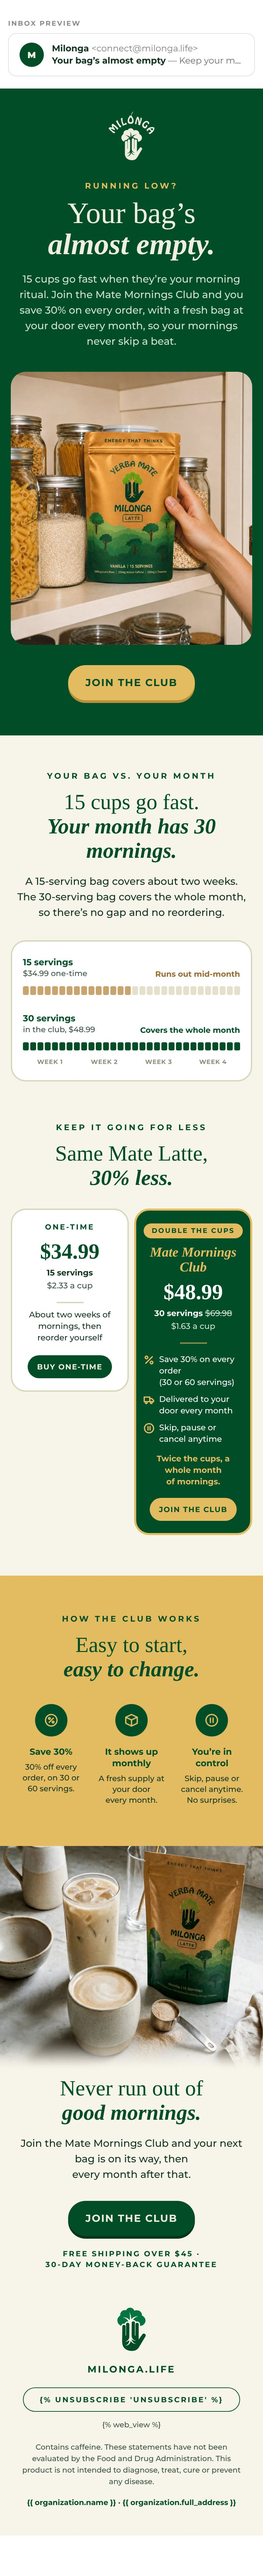
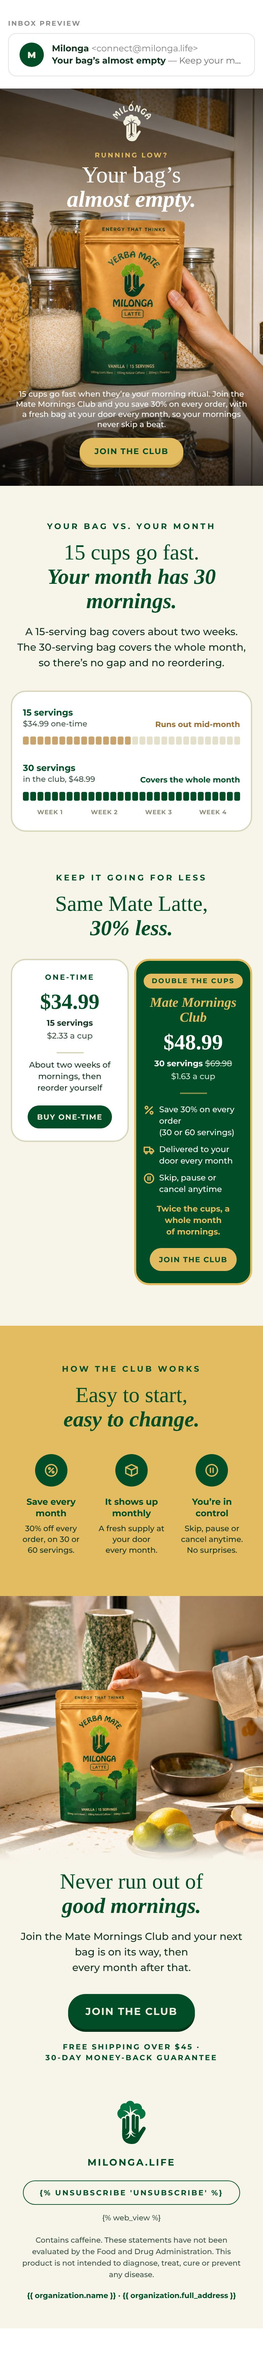
Post-purchase E3: pantry photo as the hero background, windowsill closing photo, 'Save every month'
Claude-Session: https://claude.ai/code/session_01NhEtXPnfeCJfN73SqBkUZ5

diff --git a/email-ds/refine/pp1-e3.html b/email-ds/refine/pp1-e3.html
@@ -20,7 +20,17 @@ body{margin:0;background:#FFFFFF;padding:28px 0 60px}
     .pad { padding-left:24px !important; padding-right:24px !important; }
     .pad-photo { padding-left:16px !important; padding-right:16px !important; }
     .full { width:100% !important; height:auto !important; }
-    .hero-logo { width:68px !important; height:72px !important; }
+    .hero { height:588px !important; background-size:cover !important; }
+    .hero-top { padding:18px 24px 0 !important; }
+    .hero-logo { width:57px !important; height:60px !important; }
+    .hero-eyebrow { padding-top:14px !important; font-size:10px !important; line-height:13px !important; letter-spacing:2px !important; }
+    .hero-title { font-size:34px !important; line-height:36px !important; }
+    .hero-title1 { padding-top:6px !important; }
+    .hero-gap { height:262px !important; line-height:262px !important; }
+    .hero-bottom { padding:0 22px !important; }
+    .hero-intro { font-size:11.5px !important; line-height:15px !important; }
+    .hero-cta { padding-top:12px !important; }
+    .hero .btn { padding:12px 22px !important; font-size:12px !important; letter-spacing:1px !important; }
     .h-hero { font-size:44px !important; line-height:46px !important; }
     .h-sec { font-size:32px !important; line-height:36px !important; }
     .lead { font-size:15px !important; line-height:23px !important; }
@@ -45,8 +55,6 @@ body{margin:0;background:#FFFFFF;padding:28px 0 60px}
   }
   @media (prefers-color-scheme: dark) {
     .bg-white { background-color:#FFFFFF !important; }
-    .bg-hero-top { background-color:#004D27 !important; }
-    .bg-hero { background-color:#004D27 !important; }
     .bg-cream { background-color:#F7F4EA !important; }
     .bg-page { background-color:#F0EFDF !important; }
     .bg-forest { background-color:#004D27 !important; }
@@ -60,19 +68,24 @@ body{margin:0;background:#FFFFFF;padding:28px 0 60px}
 <tr><td align="center">
 <table role="presentation" class="wrap" width="600" cellpadding="0" cellspacing="0" border="0" style="width:600px;max-width:600px;table-layout:fixed;">
 
-<!-- ── 1 · RUNNING LOW? On forest green: the pantry photo, framed, then the button ── -->
-<tr><td class="pad bg-hero-top" align="center" bgcolor="#004D27" style="background-color:#004D27;padding:34px 40px 8px;font-family:'Montserrat','Helvetica Neue',Helvetica,Arial,sans-serif;">
+<!-- ── 1 · RUNNING LOW? Bernat's pantry photo is the section's background: logo and title
+     on its darkened top, the line and the button on its darkened bottom ── -->
+<tr><td class="hero" align="center" valign="top" height="904" background="../exports/klaviyo/pp1-e3/img/hero-bg.jpg" bgcolor="#8C7B66" style="height:904px;background-color:#8C7B66;background-image:url('../exports/klaviyo/pp1-e3/img/hero-bg.jpg');background-size:cover;background-position:center top;background-repeat:no-repeat;padding:0;">
+<!--[if gte mso 9]><v:rect xmlns:v="urn:schemas-microsoft-com:vml" fill="true" stroke="false" style="width:600px;height:904px;"><v:fill type="frame" src="../exports/klaviyo/pp1-e3/img/hero-bg.jpg" color="#8C7B66" /><v:textbox inset="0,0,0,0"><![endif]-->
+<div class="hero-top" style="padding:30px 40px 0;font-family:'Montserrat','Helvetica Neue',Helvetica,Arial,sans-serif;text-align:center;">
 <a href="https://milonga.life/?utm_source=klaviyo&amp;utm_medium=email&amp;utm_campaign=post_purchase_mate_latte&amp;utm_content=pp3_logo" target="_blank" style="display:block;"><img class="hero-logo" src="../exports/klaviyo/pp1-e3/img/logo-beige.png" width="85" height="90" alt="Milonga" style="display:block;margin:0 auto;width:85px;height:90px;border:0;"></a>
-<div style="padding-top:30px;"><div style="font-size:12px;line-height:16px;font-weight:700;letter-spacing:3px;text-transform:uppercase;color:#E3BC62;">Running low?</div></div>
-<div class="h-hero" style="padding-top:10px;font-family:'Times New Roman',Times,Georgia,serif;font-size:54px;line-height:58px;font-weight:400;color:#F0EFDF;">Your bag&rsquo;s</div>
-<div class="h-hero" style="font-family:'Times New Roman',Times,Georgia,serif;font-size:54px;line-height:58px;font-weight:700;font-style:italic;color:#F0EFDF;">almost empty.</div>
-<div class="lead" style="padding-top:16px;font-size:16px;line-height:24px;font-weight:500;color:#CFE0D4;">15 cups go fast when they&rsquo;re your morning ritual. Join the Mate Mornings Club and you save 30% on every order, with a fresh bag at your door every month, so your mornings <span style="white-space:nowrap;">never skip a beat.</span></div>
-</td></tr>
-<tr><td class="pad-photo bg-hero-top" align="center" bgcolor="#004D27" style="background-color:#004D27;padding:26px 40px 30px;font-size:0;line-height:0;"><a href="https://milonga.life/products/the-original-mate-latte?utm_source=klaviyo&amp;utm_medium=email&amp;utm_campaign=post_purchase_mate_latte&amp;utm_content=pp3_hero_photo" target="_blank"><img class="full" src="../exports/klaviyo/pp1-e3/img/hero.jpg" width="520" height="587" alt="A hand placing the Mate Latte pouch on a pantry shelf" style="display:block;margin:0 auto;width:520px;height:587px;border:0;border-radius:22px;"></a></td></tr>
-<tr><td class="pad bg-hero" align="center" bgcolor="#004D27" style="background-color:#004D27;padding:0 40px 52px;font-family:'Montserrat','Helvetica Neue',Helvetica,Arial,sans-serif;">
-<!--[if mso]>
+<div class="hero-eyebrow" style="padding-top:24px;font-size:12px;line-height:16px;font-weight:700;letter-spacing:3px;text-transform:uppercase;color:#E3BC62;">Running low?</div>
+<div class="hero-title hero-title1" style="padding-top:8px;font-family:'Times New Roman',Times,Georgia,serif;font-size:52px;line-height:54px;font-weight:400;color:#FFFFFF;">Your bag&rsquo;s</div>
+<div class="hero-title" style="font-family:'Times New Roman',Times,Georgia,serif;font-size:52px;line-height:54px;font-weight:700;font-style:italic;color:#FFFFFF;">almost empty.</div>
+</div>
+<div class="hero-gap" style="height:430px;line-height:430px;font-size:0;">&nbsp;</div>
+<div class="hero-bottom" style="padding:0 44px;font-family:'Montserrat','Helvetica Neue',Helvetica,Arial,sans-serif;text-align:center;">
+<div class="hero-intro" style="font-size:15px;line-height:22px;font-weight:500;color:#FFFFFF;">15 cups go fast when they&rsquo;re your morning ritual. Join the Mate Mornings Club and you save 30% on every order, with a fresh bag at your door every month, so your mornings <span style="white-space:nowrap;">never skip a beat.</span></div>
+<div class="hero-cta" style="padding-top:22px;"><!--[if mso]>
 <v:roundrect xmlns:v="urn:schemas-microsoft-com:vml" xmlns:w="urn:schemas-microsoft-com:office:word" href="https://milonga.life/products/the-original-mate-latte?utm_source=klaviyo&amp;utm_medium=email&amp;utm_campaign=post_purchase_mate_latte&amp;utm_content=pp3_hero_button" style="height:56px;v-text-anchor:middle;width:280px;" arcsize="50%" stroke="f" fillcolor="#E3BC62"><w:anchorlock/><center style="color:#004D27;font-family:Arial,sans-serif;font-size:16px;font-weight:bold;letter-spacing:2px;">Join the club</center></v:roundrect>
-<![endif]--><!--[if !mso]><!-- --><a href="https://milonga.life/products/the-original-mate-latte?utm_source=klaviyo&amp;utm_medium=email&amp;utm_campaign=post_purchase_mate_latte&amp;utm_content=pp3_hero_button" target="_blank" class="btn" style="display:inline-block;background-color:#E3BC62;border-radius:999px;padding:20px 40px;font-family:'Montserrat','Helvetica Neue',Helvetica,Arial,sans-serif;font-size:16px;line-height:16px;font-weight:700;letter-spacing:2px;text-transform:uppercase;white-space:nowrap;color:#004D27;text-decoration:none;box-shadow:0 4px 0 #B8913A;">Join the club</a><!--<![endif]-->
+<![endif]--><!--[if !mso]><!-- --><a href="https://milonga.life/products/the-original-mate-latte?utm_source=klaviyo&amp;utm_medium=email&amp;utm_campaign=post_purchase_mate_latte&amp;utm_content=pp3_hero_button" target="_blank" class="btn" style="display:inline-block;background-color:#E3BC62;border-radius:999px;padding:20px 40px;font-family:'Montserrat','Helvetica Neue',Helvetica,Arial,sans-serif;font-size:16px;line-height:16px;font-weight:700;letter-spacing:2px;text-transform:uppercase;white-space:nowrap;color:#004D27;text-decoration:none;box-shadow:0 4px 0 #B8913A;">Join the club</a><!--<![endif]--></div>
+</div>
+<!--[if gte mso 9]></v:textbox></v:rect><![endif]-->
 </td></tr>
 
 <!-- ── 2 · 15 SERVINGS VS 30: a month of mornings, one segment a day. The
@@ -161,7 +174,7 @@ body{margin:0;background:#FFFFFF;padding:28px 0 60px}
 <table role="presentation" width="100%" cellpadding="0" cellspacing="0" border="0" style="table-layout:fixed;"><tr>
 <td class="how" width="33%" align="center" valign="top" style="width:33%;padding:0 8px;font-family:'Montserrat','Helvetica Neue',Helvetica,Arial,sans-serif;">
 <img class="how-img" src="../exports/klaviyo/pp1-e3/img/step-save.png" width="56" height="56" alt="" role="presentation" style="display:block;margin:0 auto;width:56px;height:56px;border:0;">
-<div class="how-t" style="padding-top:14px;font-size:15px;line-height:19px;font-weight:700;color:#004D27;">Save 30%</div>
+<div class="how-t" style="padding-top:14px;font-size:15px;line-height:19px;font-weight:700;color:#004D27;">Save every month</div>
 <div class="how-d" style="padding-top:6px;font-size:13px;line-height:19px;font-weight:500;color:#12331F;">30% off every order, on 30 or <span style="white-space:nowrap;">60 servings.</span></div>
 </td>
 <td class="how" width="33%" align="center" valign="top" style="width:33%;padding:0 8px;font-family:'Montserrat','Helvetica Neue',Helvetica,Arial,sans-serif;">
@@ -177,9 +190,9 @@ body{margin:0;background:#FFFFFF;padding:28px 0 60px}
 </tr></table>
 </td></tr>
 
-<!-- ── 5 · NEVER RUN OUT (the kitchen counter, a nearly empty scoop; the
-     photo's bottom fades into the cream of the text) ── -->
-<tr><td class="bg-cream" bgcolor="#F7F4EA" style="background-color:#F7F4EA;padding:0;font-size:0;line-height:0;"><img class="full" src="../exports/klaviyo/pp1-e3/img/final.jpg" width="600" height="510" alt="A hot and an iced Mate Latte on a kitchen counter beside the pouch and a nearly empty scoop" style="display:block;width:600px;height:510px;border:0;"></td></tr>
+<!-- ── 5 · NEVER RUN OUT (Bernat's windowsill photo; its bottom fades into the
+     cream of the text) ── -->
+<tr><td class="bg-cream" bgcolor="#F7F4EA" style="background-color:#F7F4EA;padding:0;font-size:0;line-height:0;"><img class="full" src="../exports/klaviyo/pp1-e3/img/final.jpg" width="600" height="610" alt="A hand on the Mate Latte pouch on a sunny windowsill" style="display:block;width:600px;height:610px;border:0;"></td></tr>
 <tr><td class="pad bg-cream" align="center" bgcolor="#F7F4EA" style="background-color:#F7F4EA;padding:8px 40px 0;font-family:'Montserrat','Helvetica Neue',Helvetica,Arial,sans-serif;">
 <div class="h-sec" style="padding-top:0px;font-family:'Times New Roman',Times,Georgia,serif;font-size:40px;line-height:44px;font-weight:400;color:#004D27;">Never run out of</div>
 <div class="h-sec" style="font-family:'Times New Roman',Times,Georgia,serif;font-size:40px;line-height:44px;font-weight:700;font-style:italic;color:#004D27;">good mornings.</div>
